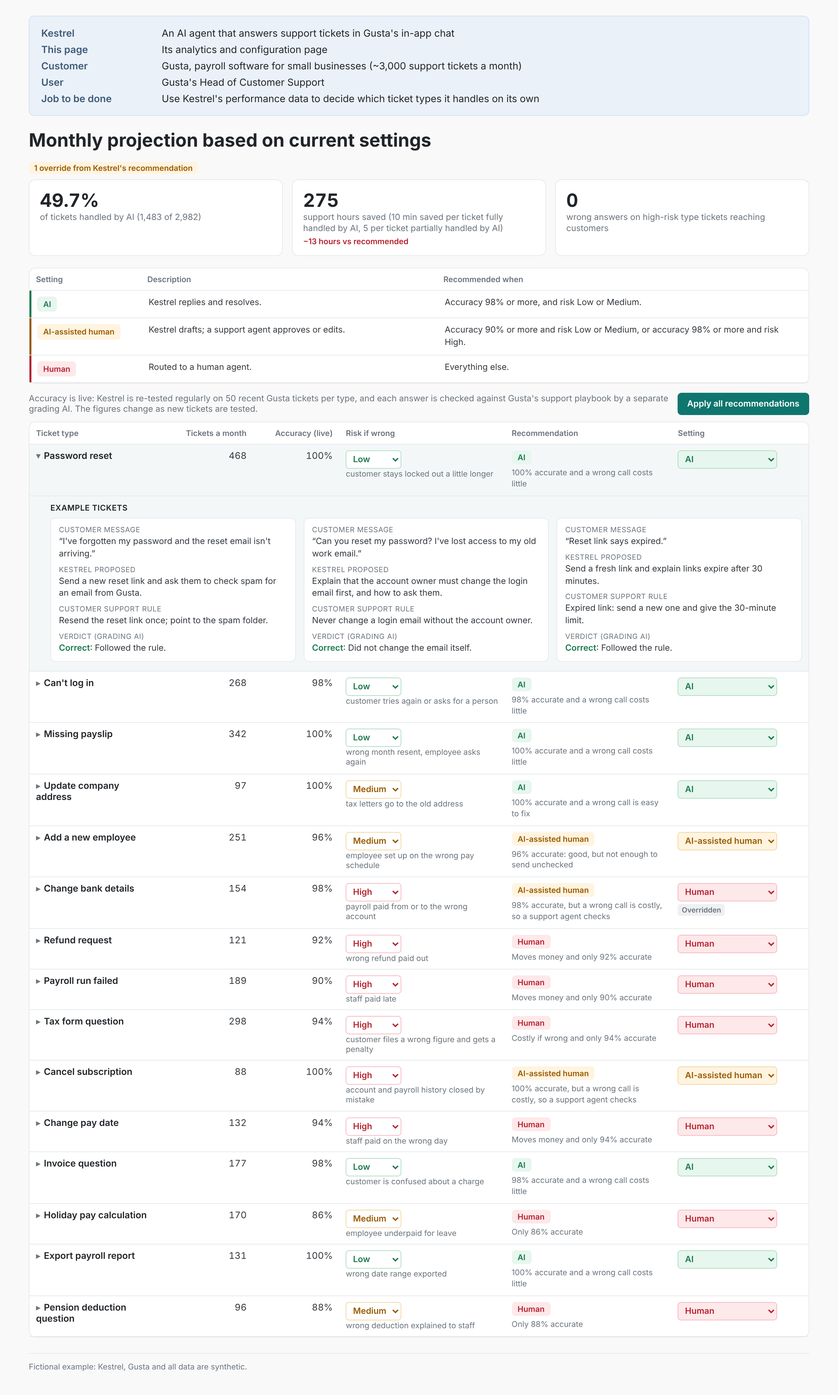
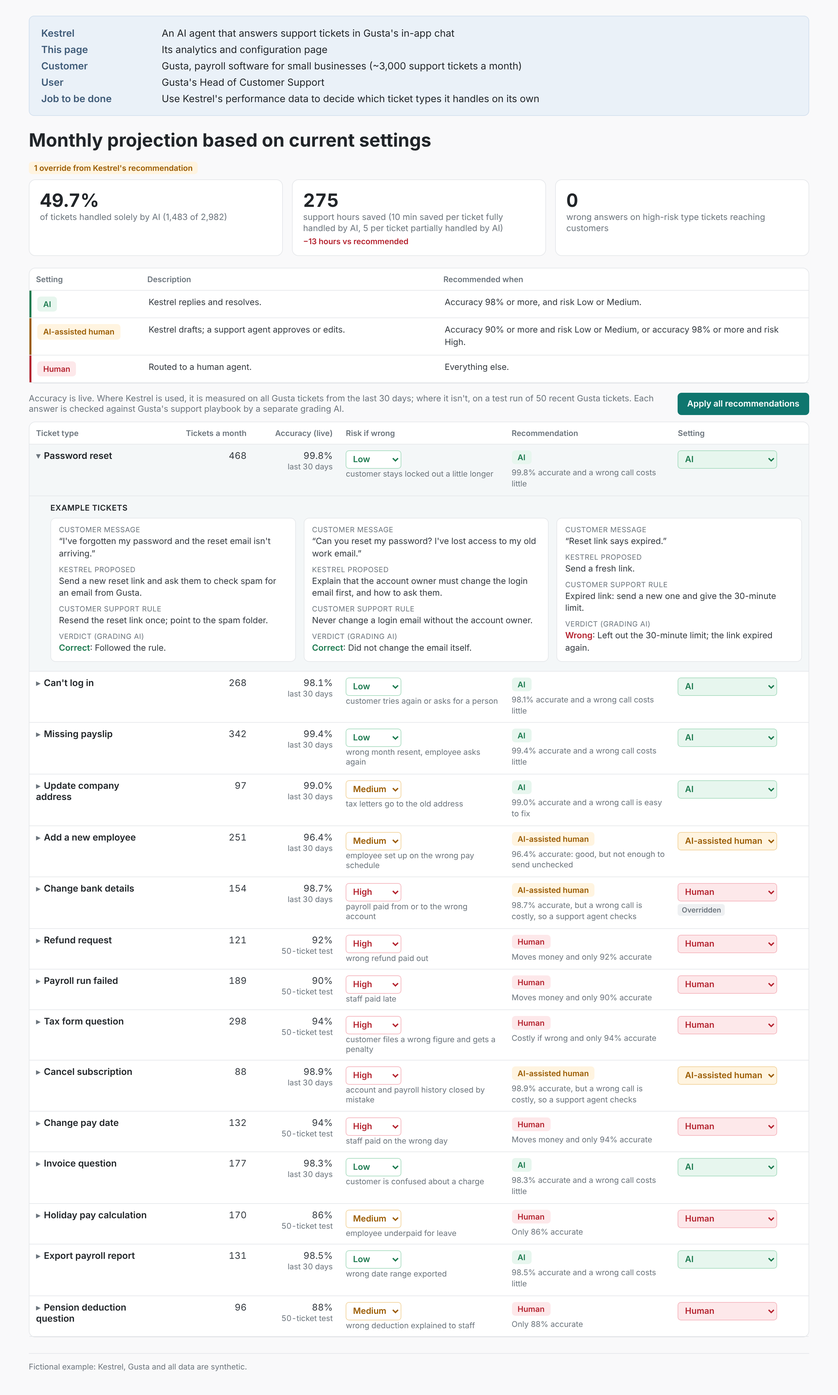
Live accuracy from the last 30 days (50-ticket test where AI isn't used); colour flash on projection changes; 'solely by AI'
Claude-Session: https://claude.ai/code/session_016JoguXTxkWcj5knaYbAtMZ

Changed region(s): [[0.6562, 0.4057, 0.9062, 0.4681], [0.0938, 0.2809, 0.4062, 0.3121], [0.3438, 0.8114, 0.375, 0.8426]]

diff --git a/examples/kestrel/run/build/mvp.html b/examples/kestrel/run/build/mvp.html
@@ -17,6 +17,10 @@ h1{font-size:28px;color:var(--head);margin:0 0 16px}
 .summary{display:grid;grid-template-columns:repeat(3,1fr);gap:14px;margin-bottom:18px}
 .delta{font-size:12px;font-weight:600;margin-top:4px}.d-up{color:var(--ai)}.d-bad{color:var(--hum)}.d-none{color:var(--mute);font-weight:400}
 .card b.hi-bad{color:var(--hum)}
+.card b{transition:color .25s}.card{transition:background-color .6s}
+.card.flash-good{background:var(--ai-bg)}.card.flash-good b{color:var(--ai)}
+.card.flash-bad{background:var(--hum-bg)}.card.flash-bad b{color:var(--hum)}
+.card{position:relative}.arrow{position:absolute;top:14px;right:16px;font-size:16px}.flash-good .arrow{color:var(--ai)}.flash-bad .arrow{color:var(--hum)}
 .card{background:#fff;border:1px solid var(--line);border-radius:10px;padding:14px 16px}
 .card b{display:block;font-size:28px;color:var(--head);font-variant-numeric:tabular-nums}
 .card span{color:var(--mute);font-size:13px}
@@ -76,7 +80,7 @@ footer{margin-top:24px;color:var(--mute);font-size:12px;border-top:1px solid var
 // ---- Every number is calculated here. Plain functions, tested in test_mvp.js ----
 // modes: 'resolve' = AI, 'draft' = AI-assisted human, 'human' = Human
 const RANK = {human: 0, draft: 1, resolve: 2};
-function accuracy(t, n){ return t.correct / n; }
+function accuracy(t){ return t.correct / t.tested; }
 function recommend(t, n){
   const a = accuracy(t, n), high = t.risk === 'High';
   if (a >= 0.98 && !high) return 'resolve';
@@ -85,7 +89,7 @@ function recommend(t, n){
 }
 // settings: one mode per type (defaults to the recommendation)
 function summary(d, settings){
-  const n = d.test_tickets_per_type, all = d.types.reduce((s, t) => s + t.tickets, 0);
+  const n = 0, all = d.types.reduce((s, t) => s + t.tickets, 0);
   let ai = 0, assisted = 0, wrong = 0, wrongHigh = 0;
   d.types.forEach((t, i) => { const m = settings[i];
     if (m === 'resolve'){ const w = t.tickets * (1 - accuracy(t, n)); ai += t.tickets; wrong += w; if (t.risk === 'High') wrongHigh += w; }
@@ -102,7 +106,7 @@ let D, settings = [], risks = [], open = new Set([0]);
 const eff = () => D.types.map((t, i) => Object.assign({}, t, {risk: risks[i]}));
 const fmt = v => Math.round(v).toLocaleString('en-GB');
 function staticParts(){
-  const K = D.product, G = D.customer, n = D.test_tickets_per_type;
+  const K = D.product, G = D.customer, n = 0;
   document.getElementById('header').innerHTML = `
     <dt>${K}</dt><dd>An AI agent that answers support tickets in ${G}'s in-app chat</dd>
     <dt>This page</dt><dd>Its analytics and configuration page</dd>
@@ -115,27 +119,28 @@ function staticParts(){
     <tr class="r-resolve"><td><span class="chip c-resolve">AI</span></td><td>${K} replies and resolves.</td><td>Accuracy 98% or more, and risk Low or Medium.</td></tr>
     <tr class="r-draft"><td><span class="chip c-draft">AI-assisted human</span></td><td>${K} drafts; a support agent approves or edits.</td><td>Accuracy 90% or more and risk Low or Medium, or accuracy 98% or more and risk High.</td></tr>
     <tr class="r-human"><td><span class="chip c-human">Human</span></td><td>Routed to a human agent.</td><td>Everything else.</td></tr></table>`;
-  document.getElementById('measure').textContent = `Accuracy is live: ${K} is re-tested regularly on ${n} recent ${G} tickets per type, and each answer is checked against ${G}'s support playbook by a separate grading AI. The figures change as new tickets are tested.`;
+  document.getElementById('measure').textContent = `Accuracy is live. Where ${K} is used, it is measured on all ${G} tickets from the last 30 days; where it isn't, on a test run of 50 recent ${G} tickets. Each answer is checked against ${G}'s support playbook by a separate grading AI.`;
   document.getElementById('footer').textContent = `Fictional example: ${K}, ${G} and all data are synthetic.`;
 }
 function render(){
-  const n = D.test_tickets_per_type, E = eff(), DE = Object.assign({}, D, {types: E}), s = summary(DE, settings), K = D.product;
+  const n = 0, E = eff(), DE = Object.assign({}, D, {types: E}), s = summary(DE, settings), K = D.product;
   const recSet = E.map(t => recommend(t, n)), r = summary(DE, recSet), overrides = settings.filter((m, i) => m !== recSet[i]).length;
   const delta = (now, base, unit, goodUp) => { const d = now - base; if (Math.abs(d) < 0.05) return '';
     const good = goodUp ? d > 0 : d < 0; return `<div class="delta ${good ? 'd-up' : 'd-bad'}">${d > 0 ? '+' : '−'}${unit(Math.abs(d))} vs recommended</div>`; };
   document.getElementById('dashHead').innerHTML = overrides ? `<span id="state" class="state state-over">${overrides} ${overrides === 1 ? 'override' : 'overrides'} from Kestrel's recommendation</span>` : '';
   document.getElementById('summary').innerHTML = `
-    <div class="card"><b id="sumShare">${(s.aiShare * 100).toFixed(1)}%</b><span>of tickets handled by AI (${fmt(s.ai)} of ${fmt(s.all)})</span>${delta(s.aiShare * 100, r.aiShare * 100, v => v.toFixed(1) + ' pts', true)}</div>
+    <div class="card"><b id="sumShare">${(s.aiShare * 100).toFixed(1)}%</b><span>of tickets handled solely by AI (${fmt(s.ai)} of ${fmt(s.all)})</span>${delta(s.aiShare * 100, r.aiShare * 100, v => v.toFixed(1) + ' pts', true)}</div>
     <div class="card"><b id="sumHours">${fmt(s.hours)}</b><span>support hours saved (${D.minutes_ai} min saved per ticket fully handled by AI, ${D.minutes_assisted} per ticket partially handled by AI)</span>${delta(s.hours, r.hours, v => fmt(v) + ' hours', true)}</div>
     <div class="card"><b id="sumHigh" class="${s.wrongHigh >= 0.5 ? 'hi-bad' : ''}">${fmt(s.wrongHigh)}</b><span>wrong answers on high-risk type tickets reaching customers</span>${delta(s.wrongHigh, r.wrongHigh, v => fmt(v), false)}</div>`;
+  flash([['sumShare', s.aiShare, true], ['sumHours', s.hours, true], ['sumHigh', s.wrongHigh, false]]);
   const rows = E.map((t, i) => {
-    const rec = recommend(t, n), set = settings[i], isOpen = open.has(i), p = Math.round(accuracy(t, n) * 100), adj = t.risk !== D.types[i].risk;
+    const rec = recommend(t, n), set = settings[i], isOpen = open.has(i), p = (accuracy(t, n) * 100).toFixed(t.tested === 50 ? 0 : 1), adj = t.risk !== D.types[i].risk;
     const over = set !== rec ? `<div><span class="tag">Overridden</span></div>` : '';
     const warn = aboveRecommended(t, n, set) ? `<div class="warn">Above recommended: ${p}% accurate on a ${t.risk}-risk type</div>` : '';
     const main = `<tr class="row${isOpen ? ' open' : ''}" data-i="${i}" onclick="toggle(${i})">
       <td><span class="chev">${isOpen ? '▾' : '▸'}</span><span class="name">${t.name}</span></td>
       <td class="n">${fmt(t.tickets)}</td>
-      <td class="n">${p}%</td>
+      <td class="n">${p}%<div class="sub">${t.tested === t.tickets ? "last 30 days" : t.tested + "-ticket test"}</div></td>
       <td onclick="event.stopPropagation()"><select class="rk-${t.risk}" data-risk="${i}" onchange="setRisk(${i}, this.value)">${['Low', 'Medium', 'High'].map(v => `<option${v === t.risk ? ' selected' : ''}>${v}</option>`).join('')}</select>${adj ? '<div class="adjusted">Adjusted by user</div>' : `<div class="sub">${t.risk_example.replace(/^\w+: /, '')}</div>`}</td>
       <td><span class="chip c-${rec}">${LABEL[rec]}</span>${adj ? '' : `<div class="reason">${t.reason}</div>`}</td>
       <td onclick="event.stopPropagation()"><select class="s-${set}" data-i="${i}" onchange="setMode(${i}, this.value)">${['resolve', 'draft', 'human'].map(m => `<option value="${m}"${m === set ? ' selected' : ''}>${LABEL[m]}</option>`).join('')}</select>${over}${warn}</td>
@@ -149,16 +154,29 @@ function render(){
   document.getElementById('types').innerHTML = `<tr><th>Ticket type</th><th class="n">Tickets a month</th><th class="n">Accuracy (live)</th><th>Risk if wrong</th><th>Recommendation</th><th>Setting</th></tr>${rows}`;
 }
 function toggle(i){ open.has(i) ? open.delete(i) : open.add(i); render(); }
+// colour a card for a moment when its number changes: green if the change is good, red if not
+let last = null;
+function flash(items){
+  const now = {};
+  items.forEach(([id, v, goodUp]) => { now[id] = v;
+    if (!last || Math.abs(last[id] - v) < 1e-9) return;
+    const el = document.getElementById(id), card = el.closest('.card'), up = v > last[id], good = goodUp ? up : !up;
+    card.insertAdjacentHTML('beforeend', `<span class="arrow">${up ? '▲' : '▼'}</span>`);
+    card.classList.add(good ? 'flash-good' : 'flash-bad');
+    setTimeout(() => { card.classList.remove('flash-good', 'flash-bad'); card.querySelectorAll('.arrow').forEach(a => a.remove()); }, 1600); });
+  last = now; }
 let toastTimer;
 function toast(msg){ const el = document.getElementById('toast'); el.innerHTML = `<span class="tick">✓</span>${msg}`; el.classList.add('show');
   clearTimeout(toastTimer); toastTimer = setTimeout(() => el.classList.remove('show'), 2500); }
 function setMode(i, m){ settings[i] = m; render(); toast(`${D.types[i].name} set to ${LABEL[m]}. Projection updated.`); }
 // changing risk re-runs the recommendation; the setting follows it only if it was still on the old recommendation
-function setRisk(i, v){ const n = D.test_tickets_per_type, before = recommend(eff()[i], n); risks[i] = v;
+function setRisk(i, v){ const n = 0, before = recommend(eff()[i], n); risks[i] = v;
   const after = recommend(eff()[i], n); if (settings[i] === before) settings[i] = after; render();
   toast(`${D.types[i].name} risk set to ${v}. ${after !== before ? 'Now recommended: ' + LABEL[after] + '.' : 'Recommendation unchanged.'}`); }
-function applyAll(silent){ settings = eff().map(t => recommend(t, D.test_tickets_per_type)); render(); if (!silent) toast('All recommendations applied. Projection updated.'); }
-fetch('../data/ticket_types.json').then(r => r.json()).then(d => { D = d; risks = D.types.map(t => t.risk); staticParts(); applyAll(true); settings[D.types.findIndex(t => t.name === 'Change bank details')] = 'human'; render(); document.body.dataset.ready = '1'; })
+function applyAll(silent){ settings = eff().map(t => recommend(t, 0)); render(); if (!silent) toast('All recommendations applied. Projection updated.'); }
+fetch('../data/ticket_types.json').then(r => r.json()).then(d => { D = d; risks = D.types.map(t => t.risk); staticParts(); applyAll(true);
+  setTimeout(() => { settings[D.types.findIndex(t => t.name === 'Change bank details')] = 'human'; render();
+    toast("Saved settings loaded: 1 override from Kestrel's recommendation."); document.body.dataset.ready = '1'; }, 600); })
   .catch(() => { document.querySelector('main').insertAdjacentHTML('afterbegin', '<p class="measure"><b>Couldn\'t load the data.</b> Open this page through a web server, not by double-clicking the file.</p>'); });
 </script>
 </body></html>

diff --git a/examples/kestrel/run/build/test_mvp.js b/examples/kestrel/run/build/test_mvp.js
@@ -2,30 +2,27 @@
 const fs = require('fs'), path = require('path');
 const html = fs.readFileSync(path.join(__dirname, 'mvp.html'), 'utf8');
 const m = { exports: {} }; new Function('module', html.split('<script id="calc">')[1].split('</script>')[0])(m); const C = m.exports;
-const D = JSON.parse(fs.readFileSync(path.join(__dirname, '../data/ticket_types.json'))); const n = D.test_tickets_per_type;
+const D = JSON.parse(fs.readFileSync(path.join(__dirname, '../data/ticket_types.json'))); const n = 0;
 let fail = 0; const t = (name, ok, got) => { if (!ok) fail++; if (!ok || got !== undefined) console.log(`${ok ? 'PASS' : 'FAIL'} ${name}${got !== undefined ? ': ' + got : ''}`); };
 // the table from the brief: name, tickets, correct, risk, recommendation
-const BRIEF = [['Password reset',468,50,'Low','resolve'],["Can't log in",268,49,'Low','resolve'],['Missing payslip',342,50,'Low','resolve'],['Update company address',97,50,'Medium','resolve'],
-  ['Add a new employee',251,48,'Medium','draft'],['Change bank details',154,49,'High','draft'],['Refund request',121,46,'High','human'],['Payroll run failed',189,45,'High','human'],
-  ['Tax form question',298,47,'High','human'],['Cancel subscription',88,50,'High','draft'],['Change pay date',132,47,'High','human'],['Invoice question',177,49,'Low','resolve'],
-  ['Holiday pay calculation',170,43,'Medium','human'],['Export payroll report',131,50,'Low','resolve'],['Pension deduction question',96,44,'Medium','human']];
-BRIEF.forEach(([name, tk, k, risk, rec], i) => { const x = D.types[i];
-  t(`${name}: data matches the brief`, x.name === name && x.tickets === tk && x.correct === k && x.risk === risk);
+const BRIEF = [['Password reset',468,468,467,'Low','resolve'],["Can't log in",268,268,263,'Low','resolve'],['Missing payslip',342,342,340,'Low','resolve'],['Update company address',97,97,96,'Medium','resolve'],['Add a new employee',251,251,242,'Medium','draft'],['Change bank details',154,154,152,'High','draft'],['Refund request',121,50,46,'High','human'],['Payroll run failed',189,50,45,'High','human'],['Tax form question',298,50,47,'High','human'],['Cancel subscription',88,88,87,'High','draft'],['Change pay date',132,50,47,'High','human'],['Invoice question',177,177,174,'Low','resolve'],['Holiday pay calculation',170,50,43,'Medium','human'],['Export payroll report',131,131,129,'Low','resolve'],['Pension deduction question',96,50,44,'Medium','human']];
+BRIEF.forEach(([name, tk, tested, k, risk, rec], i) => { const x = D.types[i];
+  t(`${name}: data matches; tested on all 30-day tickets if Kestrel is used, else 50`, x.name === name && x.tickets === tk && x.tested === (rec === 'human' ? 50 : tk) && x.tested === tested && x.correct === k && x.risk === risk);
+  t(`${name}: reason quotes the live accuracy`, x.reason.includes((k / tested * 100).toFixed(tested === 50 ? 0 : 1) + '%'));
   t(`${name}: rules give the brief's recommendation`, C.recommend(x, n) === rec);
   t(`${name}: 3 examples with message, proposal, rule and verdict`, x.examples.length === 3 && x.examples.every(e => e.message && e.proposed && e.rule && e.verdict_reason));
-  if (k < n) t(`${name}: below 100% so at least one Wrong example`, x.examples.some(e => !e.correct));
-  else t(`${name}: 50/50 so every example is Correct`, x.examples.every(e => e.correct)); });
+  if (k < tested) t(`${name}: below 100% so at least one Wrong example`, x.examples.some(e => !e.correct)); });
 const rec = D.types.map(x => C.recommend(x, n)), s = C.summary(D, rec);
 t('tickets a month', s.all === 2982, s.all);
 t('handled by AI: 49.7%', (s.aiShare * 100).toFixed(1) === '49.7', (s.aiShare * 100).toFixed(2));
 t('hours saved: 1,483 × 10 min + 493 × 5 min = 288', Math.round(s.hours) === 288 && s.ai === 1483 && s.assisted === 493, s.hours.toFixed(1));
-t('wrong answers: 268 × 2% + 177 × 2% = 8.9', Math.abs(s.wrong - 8.9) < 0.001, s.wrong.toFixed(2));
+t('wrong answers on AI-handled types: 1 + 5 + 2 + 1 + 3 + 2 = 14', Math.abs(s.wrong - 14) < 1e-9, s.wrong.toFixed(2));
 // overriding Refund request to AI: more autonomy, so a warning, and the numbers move
 const o = rec.slice(); o[6] = 'resolve'; const so = C.summary(D, o);
 t('override Refund request to AI is above recommended', C.aboveRecommended(D.types[6], n, 'resolve'));
-t('override adds 121 AI tickets and 9.7 wrong answers', so.ai === 1604 && Math.abs(so.wrong - (8.9 + 121 * 0.08)) < 0.001, `${so.ai}, ${so.wrong.toFixed(2)}`);
+t('override adds 121 AI tickets', so.ai === 1604, so.ai);
 t('recommended settings: 0 wrong answers on High-risk types', s.wrongHigh === 0, s.wrongHigh);
-t('Refund request on AI: 9.7 wrong answers on High-risk types', Math.abs(so.wrongHigh - 121 * 0.08) < 0.001, so.wrongHigh.toFixed(2));
+t('Refund request on AI: wrong answers on High-risk types = 121 × 8% = 9.7', Math.abs(so.wrongHigh - 121 * 4 / 50) < 1e-9, so.wrongHigh.toFixed(2));
 t('lowering autonomy is not a warning', !C.aboveRecommended(D.types[0], n, 'human'));
 const text = JSON.stringify(D) + html;
 t('no em dashes', !text.includes('—'));

diff --git a/examples/kestrel/run/build/check_mvp.js b/examples/kestrel/run/build/check_mvp.js
@@ -14,6 +14,8 @@ const srv = http.createServer((q, r) => { const f = path.join(root, decodeURICom
   t('headline', (await txt('#headline')) === 'Monthly projection based on current settings');
   t('default: 1 override (Change bank details set to Human)', (await txt('#state')) === "1 override from Kestrel's recommendation" && (await p.inputValue('select[data-i="5"]')) === 'human' && (await txt('tr.row[data-i="5"]')).includes('Overridden'));
   t('default projection: 49.7%, 275 hours, 0', (await txt('#sumShare')) === '49.7%' && (await txt('#sumHours')) === '275' && (await txt('#sumHigh')) === '0');
+  t('on load: saved settings applied with a red flash on hours, and a confirmation', (await p.getAttribute('#sumHours >> xpath=..', 'class')).includes('flash-bad') && (await txt('#toast')).includes('Saved settings loaded'));
+  t('label says solely by AI', (await txt('#summary')).includes('of tickets handled solely by AI'));
   await p.click('#applyAll');
   t('no badge with recommended settings', !(await p.$('#state')));
   t('recommended settings: 49.7%, 288 hours, 0 high-risk wrong answers', (await txt('#sumShare')) === '49.7%' && (await txt('#sumHours')) === '288' && (await txt('#sumHigh')) === '0');
@@ -27,6 +29,7 @@ const srv = http.createServer((q, r) => { const f = path.join(root, decodeURICom
   await p.selectOption('select[data-i="6"]', 'resolve');
   t('confirmation shows after a setting change', await p.isVisible('#toast.show') && (await txt('#toast')).includes('Refund request set to AI. Projection updated.'));
   const row = await txt('tr.row[data-i="6"]');
+  t('raising AI share flashes green, high-risk wrong answers flash red', (await p.getAttribute('#sumShare >> xpath=..', 'class')).includes('flash-good') && (await p.getAttribute('#sumHigh >> xpath=..', 'class')).includes('flash-bad'));
   t('override shows Overridden and the warning', row.includes('Overridden') && row.includes('Above recommended: 92% accurate on a High-risk type'));
   t('summary updates: 53.8%, 10 high-risk wrong answers', (await txt('#sumShare')) === '53.8%' && (await txt('#sumHigh')) === '10');
   t('dashboard updates: 1 override, 10 on High-risk types, deltas shown', (await txt('#state')) === "1 override from Kestrel's recommendation" && (await txt('#sumHigh')) === '10' && (await txt('#summary')).includes('+10 vs recommended'));

diff --git a/examples/kestrel/run/build/capture_screens.js b/examples/kestrel/run/build/capture_screens.js
@@ -6,7 +6,7 @@ const srv = http.createServer((q, r) => { const f = path.join(root, decodeURICom
 (async () => {
   await new Promise(ok => srv.listen(0, ok)); const b = await chromium.launch();
   const p = await b.newPage({ viewport: { width: 1280, height: 900 }, deviceScaleFactor: scale });
-  await p.goto(`http://localhost:${srv.address().port}/build/mvp.html`); await p.waitForSelector('body[data-ready="1"]');
+  await p.goto(`http://localhost:${srv.address().port}/build/mvp.html`); await p.waitForSelector('body[data-ready="1"]'); await p.waitForTimeout(2800);
   await p.screenshot({ path: path.join(root, 'design', '1-overview.png'), fullPage: true });
   await p.click('tr.row:has-text("Refund request") .name'); await p.selectOption('select[data-i="6"]', 'resolve'); await p.waitForTimeout(2800);
   await p.screenshot({ path: path.join(root, 'design', '2-override.png'), fullPage: true });

diff --git a/examples/kestrel/run/notebooks/make_data.py b/examples/kestrel/run/notebooks/make_data.py
@@ -12,7 +12,7 @@ T = [
  ("Password reset", 468, 50, "Low", "Low: customer stays locked out a little longer", False, [
    ("I've forgotten my password and the reset email isn't arriving.", "Send a new reset link and ask them to check spam for an email from Gusta.", "Resend the reset link once; point to the spam folder.", True, "Followed the rule."),
    ("Can you reset my password? I've lost access to my old work email.", "Explain that the account owner must change the login email first, and how to ask them.", "Never change a login email without the account owner.", True, "Did not change the email itself."),
-   ("Reset link says expired.", "Send a fresh link and explain links expire after 30 minutes.", "Expired link: send a new one and give the 30-minute limit.", True, "Followed the rule.")]),
+   ("Reset link says expired.", "Send a fresh link.", "Expired link: send a new one and give the 30-minute limit.", False, "Left out the 30-minute limit; the link expired again.")]),
  ("Can't log in", 268, 49, "Low", "Low: customer tries again or asks for a person", False, [
    ("My 2-step code isn't arriving by text.", "Send the code by email instead and show how to update the phone number.", "Offer email codes when text fails.", True, "Followed the rule."),
    ("It says my account is locked.", "Unlock after the 15-minute timeout and send a reset link.", "Locked accounts unlock after 15 minutes; send a reset link.", True, "Followed the rule."),
@@ -20,11 +20,11 @@ T = [
  ("Missing payslip", 342, 50, "Low", "Low: wrong month resent, employee asks again", False, [
    ("One of my staff can't find her March payslip.", "Show where payslips sit under Employees > Documents and how to resend March.", "Show the documents page and offer to resend.", True, "Followed the rule."),
    ("Where do employees download payslips?", "Link the employee app guide and the resend option.", "Link the employee app guide.", True, "Followed the rule."),
-   ("Payslip for last Friday isn't showing.", "Explain payslips appear once the payroll run is approved; this one is still in draft.", "Check the run status before anything else.", True, "Checked the run status first.")]),
+   ("Payslip for last Friday isn't showing.", "Resend the payslip to the employee.", "Check the run status before anything else.", False, "The run was still in draft; there was no payslip to resend.")]),
  ("Update company address", 97, 50, "Medium", "Medium: tax letters go to the old address", False, [
    ("We've moved office, how do I change our address?", "Update the registered address after confirming the account owner; tax letters follow in 1 to 2 weeks.", "Only the account owner can change the registered address.", True, "Confirmed the account owner first."),
    ("Change our trading address to 14 Mill Lane.", "Update the trading address and leave the registered address as it is.", "Trading and registered addresses are separate; change only the one asked for.", True, "Changed only the trading address."),
-   ("Our address on payslips is wrong.", "Explain payslips use the trading address and update it.", "Payslips show the trading address.", True, "Followed the rule.")]),
+   ("Our address on payslips is wrong.", "Update the registered address.", "Payslips show the trading address.", False, "Changed the registered address, not the trading address.")]),
  ("Add a new employee", 251, 48, "Medium", "Medium: employee set up on the wrong pay schedule", False, [
    ("How do I add someone starting Monday?", "Walk through Add employee and the tax details needed before the first run.", "List the tax details needed before the first payroll run.", True, "Followed the rule."),
    ("New starter is part time, 3 days a week.", "Set up a part-time contract with pro-rata salary.", "Part-time staff get a pro-rata salary on their contract.", True, "Followed the rule."),
@@ -48,7 +48,7 @@ T = [
  ("Cancel subscription", 88, 50, "High", "High: account and payroll history closed by mistake", False, [
    ("We're closing the business, how do I cancel?", "Explain the final payroll steps and how to export records, then draft the cancellation.", "Before cancelling: final payroll, export records, owner confirms.", True, "Covered all three steps."),
    ("Cancel at the end of this month please.", "Draft the cancellation for the end of the month and list what to export first.", "Cancellations take effect at the end of the billing month.", True, "Followed the rule."),
-   ("Thinking of cancelling, what happens to our data?", "Explain records are kept for 6 years and can be exported at any time.", "Records are kept for 6 years after cancelling.", True, "Followed the rule.")]),
+   ("Thinking of cancelling, what happens to our data?", "Explain records are deleted when the account closes.", "Records are kept for 6 years after cancelling.", False, "Records are kept for 6 years, not deleted.")]),
  ("Change pay date", 132, 47, "High", "High: staff paid on the wrong day", True, [
    ("Can we pay staff on the 25th instead of the last day?", "Show how to change the pay date from next month and the bank cut-off.", "Pay date changes apply from the next run; give the bank cut-off.", True, "Followed the rule."),
    ("Bank holiday on payday, can we pay a day early?", "Move this month's pay date one working day earlier.", "Bank holidays: pay the working day before.", True, "Followed the rule."),
@@ -63,33 +63,52 @@ T = [
    ("How do I record 2 days of leave?", "Show how to add leave on the employee's calendar.", "Record leave on the employee calendar.", True, "Followed the rule.")]),
  ("Export payroll report", 131, 50, "Low", "Low: wrong date range exported", False, [
    ("Need a payroll summary for our accountant.", "Export the summary for the last tax year as a spreadsheet.", "Default to the last full tax year unless asked.", True, "Followed the rule."),
-   ("How do I export last quarter?", "Show the date filter on Reports and export Q3.", "Use the date filter for custom ranges.", True, "Followed the rule."),
+   ("How do I export last quarter?", "Export Q2 using the date filter on Reports.", "Last quarter means the most recent full quarter.", False, "Exported Q2; the last full quarter was Q3."),
    ("Can I get a list of all employees with salaries?", "Export the employee list with salaries.", "Only admins can export salaries; this user is an admin.", True, "Checked the user is an admin.")]),
  ("Pension deduction question", 96, 44, "Medium", "Medium: wrong deduction explained to staff", False, [
    ("Why has pension been taken from a new starter?", "Explain automatic enrolment after the waiting period.", "New starters are enrolled after the waiting period.", True, "Followed the rule."),
    ("An employee wants to opt out of the pension.", "Show how to record the opt-out and refund the first deduction.", "Opt-outs within a month get the deduction refunded.", True, "Followed the rule."),
    ("Pension amount looks wrong this month.", "Say it was correct.", "Check for salary changes before confirming a deduction.", False, "Missed a salary change.")]),
 ]
-REASON = {
- "Password reset": "100% accurate and a wrong call costs little",
- "Can't log in": "98% accurate and a wrong call costs little",
- "Missing payslip": "100% accurate and a wrong call costs little",
- "Update company address": "100% accurate and a wrong call is easy to fix",
- "Add a new employee": "96% accurate: good, but not enough to send unchecked",
- "Change bank details": "98% accurate, but a wrong call is costly, so a support agent checks",
- "Refund request": "Moves money and only 92% accurate",
- "Payroll run failed": "Moves money and only 90% accurate",
- "Tax form question": "Costly if wrong and only 94% accurate",
- "Cancel subscription": "100% accurate, but a wrong call is costly, so a support agent checks",
- "Change pay date": "Moves money and only 94% accurate",
- "Invoice question": "98% accurate and a wrong call costs little",
- "Holiday pay calculation": "Only 86% accurate",
- "Export payroll report": "100% accurate and a wrong call costs little",
- "Pension deduction question": "Only 88% accurate",
+# live accuracy: where Kestrel is used, every ticket from the last 30 days (= tickets a month); where it isn't (Human), a test on 50 recent tickets
+LIVE = {
+ 'Password reset': (468, 467),
+ "Can't log in": (268, 263),
+ 'Missing payslip': (342, 340),
+ 'Update company address': (97, 96),
+ 'Add a new employee': (251, 242),
+ 'Change bank details': (154, 152),
+ 'Refund request': (50, 46),
+ 'Payroll run failed': (50, 45),
+ 'Tax form question': (50, 47),
+ 'Cancel subscription': (88, 87),
+ 'Change pay date': (50, 47),
+ 'Invoice question': (177, 174),
+ 'Holiday pay calculation': (50, 43),
+ 'Export payroll report': (131, 129),
+ 'Pension deduction question': (50, 44),
 }
+REASON = {
+ "Password reset": "{p} accurate and a wrong call costs little",
+ "Can't log in": "{p} accurate and a wrong call costs little",
+ "Missing payslip": "{p} accurate and a wrong call costs little",
+ "Update company address": "{p} accurate and a wrong call is easy to fix",
+ "Add a new employee": "{p} accurate: good, but not enough to send unchecked",
+ "Change bank details": "{p} accurate, but a wrong call is costly, so a support agent checks",
+ "Refund request": "Moves money and only {p} accurate",
+ "Payroll run failed": "Moves money and only {p} accurate",
+ "Tax form question": "Costly if wrong and only {p} accurate",
+ "Cancel subscription": "{p} accurate, but a wrong call is costly, so a support agent checks",
+ "Change pay date": "Moves money and only {p} accurate",
+ "Invoice question": "{p} accurate and a wrong call costs little",
+ "Holiday pay calculation": "Only {p} accurate",
+ "Export payroll report": "{p} accurate and a wrong call costs little",
+ "Pension deduction question": "Only {p} accurate",
+}
+pct = lambda n: (f"{LIVE[n][1] / LIVE[n][0] * 100:.0f}%" if LIVE[n][0] == 50 else f"{LIVE[n][1] / LIVE[n][0] * 100:.1f}%")
 out = {"label": "FICTIONAL and SYNTHETIC: Kestrel example, not real data",
-       "product": "Kestrel", "customer": "Gusta", "channel": "In-app chat", "minutes_ai": 10, "minutes_assisted": 5, "test_tickets_per_type": 50,
-       "types": [{"name": n, "tickets": v, "correct": k, "risk": c, "risk_example": ce, "reason": REASON[n],
+       "product": "Kestrel", "customer": "Gusta", "channel": "In-app chat", "minutes_ai": 10, "minutes_assisted": 5,
+       "types": [{"name": n, "tickets": v, "tested": LIVE[n][0], "correct": LIVE[n][1], "risk": c, "risk_example": ce, "reason": REASON[n].format(p=pct(n)),
                   "examples": [{"message": a, "proposed": b, "rule": rl, "correct": ok, "verdict_reason": rs} for a, b, rl, ok, rs in ex]}
                  for n, v, k, c, ce, mm, ex in T]}
 json.dump(out, open("data/ticket_types.json", "w"), indent=1)

diff --git a/README.md b/README.md
@@ -17,13 +17,13 @@ Kestrel's analytics and configuration page, for Gusta's Head of Customer Support
 
 | Part | What it shows |
 |---|---|
-| Monthly projection based on current settings | **49.7%** of tickets handled by AI (1,483 of 2,982) · **275** support hours saved (10 minutes per ticket fully handled by AI, 5 per ticket partially handled by AI) · **0** wrong answers on high-risk type tickets reaching customers. Recalculates as settings change, and shows the change against Kestrel's recommendation |
+| Monthly projection based on current settings | **49.7%** of tickets handled solely by AI (1,483 of 2,982) · **275** support hours saved (10 minutes per ticket fully handled by AI, 5 per ticket partially handled by AI) · **0** wrong answers on high-risk type tickets reaching customers. Recalculates as settings change; each change flashes green or red and shows the difference from Kestrel's recommendation |
 | Settings | **AI**: Kestrel replies and resolves (recommended at 98%+ accuracy and risk Low or Medium) · **AI-assisted human**: Kestrel drafts, a support agent approves or edits (90%+ and risk Low or Medium, or 98%+ and risk High) · **Human**: routed to a human agent (everything else) |
 | The table | 15 ticket types: tickets a month, live accuracy, risk if wrong, Kestrel's recommendation with its reason, and the setting Gusta controls |
 | Adjustments | Risk and setting are both editable. Changing a risk shows "Adjusted by user" and re-runs the recommendation; changing a setting shows "Overridden" and warns when it gives Kestrel more autonomy than recommended. A confirmation appears after each change. The page opens with one override (Change bank details kept with a human); "Apply all recommendations" resets it |
 | Example tickets | 3 under each ticket type: customer message, what Kestrel proposed, the customer support rule, and the grading AI's verdict |
 
-Accuracy is live: Kestrel is re-tested regularly on 50 recent tickets per type, each checked against Gusta's support playbook by a separate grading AI. Every number on the page is calculated from [the data](examples/kestrel/run/data/ticket_types.json) and checked by [tests](examples/kestrel/run/build/test_mvp.js) on every push.
+Accuracy is live. Where Kestrel is used, it is measured on all Gusta tickets from the last 30 days; where it isn't, on a test run of 50 recent tickets. Each answer is checked against Gusta's support playbook by a separate grading AI. Every number on the page is calculated from [the data](examples/kestrel/run/data/ticket_types.json) and checked by [tests](examples/kestrel/run/build/test_mvp.js) on every push.
 
 ## My AI stack
 
